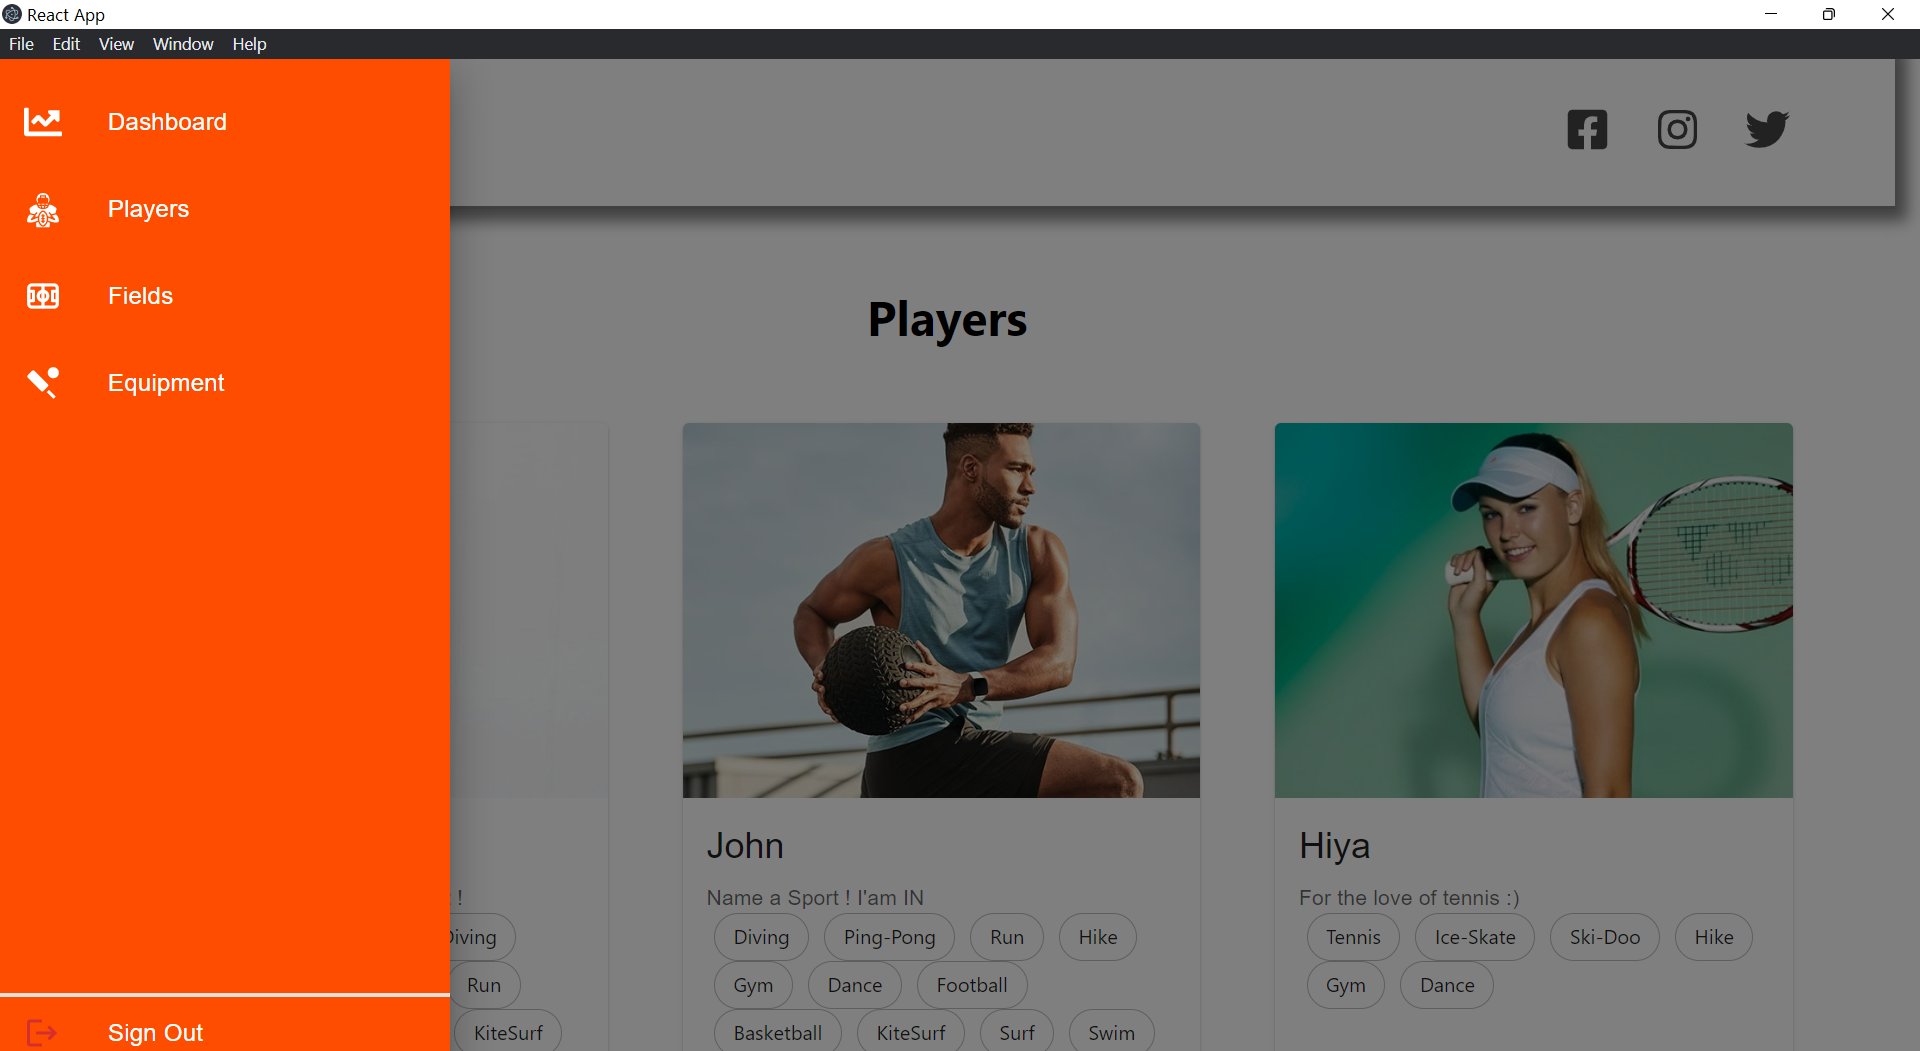
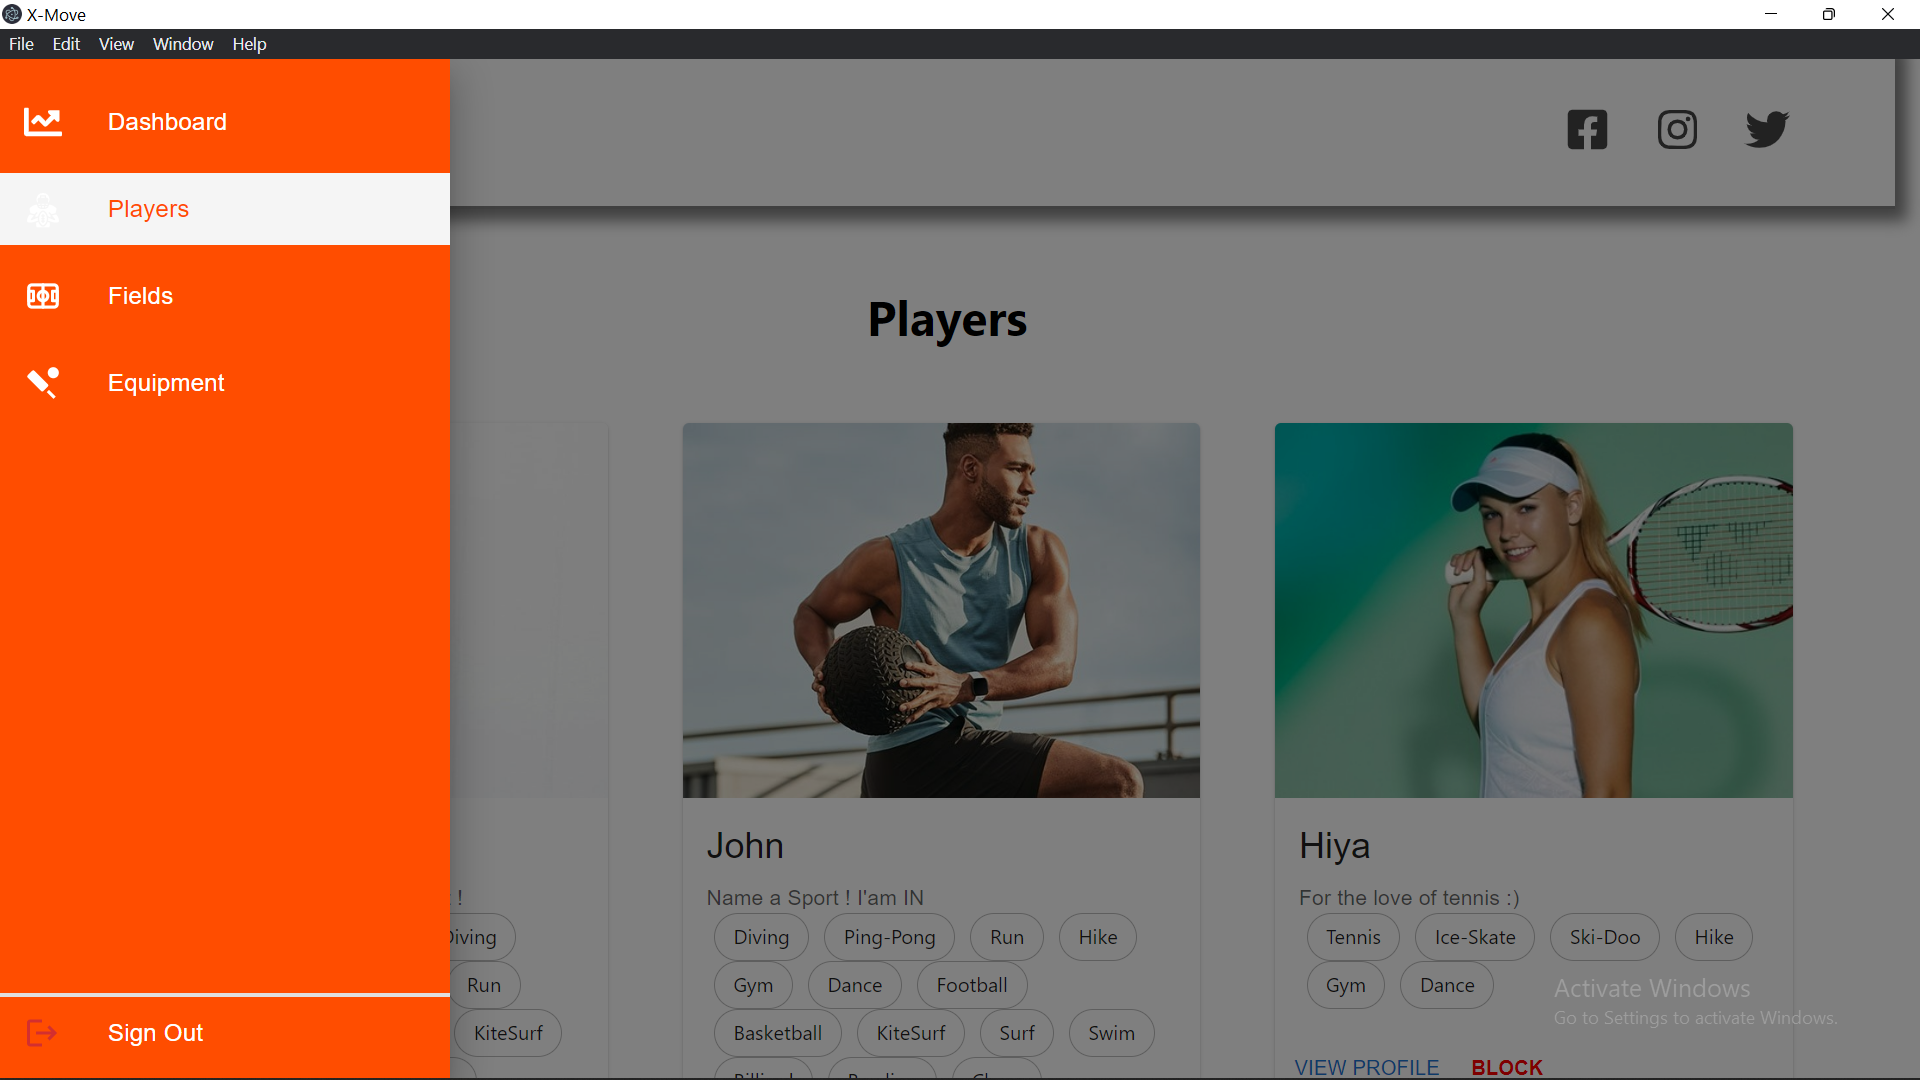
X-Move: README.md v2 Finished Admin section

diff --git a/README.md b/README.md
@@ -47,11 +47,11 @@
 
 | Landing Page                                                    | Resgister                                                        | Categories                                                         |
 | --------------------------------------------------------------- | ---------------------------------------------------------------- | ------------------------------------------------------------------ |
-| <img src="readme/figma/landing.svg" width="400" height="800" /> | <img src="readme/figma/register.svg" width="400" height="800" /> | <img src="readme/figma/categories.svg" width="400" height="800" /> |
+| <img src="readme/figma/landing.svg" width="250" height="500" /> | <img src="readme/figma/register.svg" width="250" height="500" /> | <img src="readme/figma/categories.svg" width="250" height="500" /> |
 
 | Players                                                         | Player Profile                                                  | Feeds                                                         |
 | --------------------------------------------------------------- | --------------------------------------------------------------- | ------------------------------------------------------------- |
-| <img src="readme/figma/players.svg" width="400" height="800" /> | <img src="readme/figma/profile.svg" width="400" height="800" /> | <img src="readme/figma/feeds.svg" width="400" height="800" /> |
+| <img src="readme/figma/players.svg" width="250" height="500" /> | <img src="readme/figma/profile.svg" width="250" height="500" /> | <img src="readme/figma/feeds.svg" width="250" height="500" /> |
 
 <br><br>
 
@@ -211,9 +211,9 @@ Here's a brief high-level overview of the tech stack the Well app uses:
 
 <br>
 
-| <h2>Home</h2>                 |
-| ----------------------------- |
-| ![](readme/electron/Home.png) |
+| <h2>Application Lifecycle / Statistics</h2> |
+| ------------------------------------------- |
+| ![](readme/electron/Home.png)               |
 
 <br>
 <h2>Data analysis</h2>
@@ -225,15 +225,37 @@ Here's a brief high-level overview of the tech stack the Well app uses:
 
 <br>
 
-| <h2>Check Reservations per month</h2> |
-| ------------------------------------- |
-| ![](readme/electron/PropertyRes.gif)  |
+| <h2>Reservations per month for fields & equipments</h2> |
+| ------------------------------------------------------- |
+| ![](readme/electron/PropertyRes.gif)                    |
+
+<br>
+
+<hr>
+
+![](readme/electron/Drawer.png)
+
+<hr>
 
 <br>
 
 | <h2>Players</h2>                 |
 | -------------------------------- |
 | ![](readme/electron/players.gif) |
+
+<br>
+
+| <h2>Fields</h2>                 |
+| ------------------------------- |
+| ![](readme/electron/Fields.gif) |
+
+<br>
+
+| <h2>Equipment</h2>                 |
+| ---------------------------------- |
+| ![](readme/electron/Equipment.gif) |
+
+<br> <br>
 
 <img id="run" src="./readme/title6.svg"/>
 
